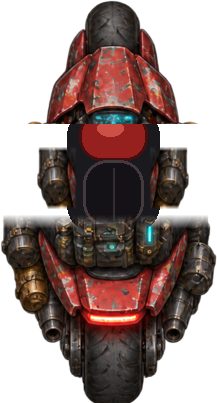
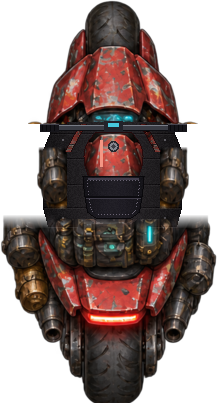
v0.57.1 · ClaudeHelper: Ravens Schüsse, unsichtbare Koop-Wand, geparktes Motorrad (#24)
- Ravens normale Schüsse treffen die Gegner in Kapitel 3–7
- Koop-Leine nur noch zwischen zwei gespielten, sichtbaren Helden
- Geparktes Motorrad: Mittelteil mit Rahmen, Lenker, Tank und Sitzbank statt Lücke
- Anzeige ohne doppelte Raven-Zeile

Claude-Session: https://claude.ai/code/session_01DCcWRks7BwbFYudgfv7A8H

Changed region(s): [[0.1659, 0.2978, 0.8848, 0.5658], [0.0553, 0.536, 0.1106, 0.5658]]

diff --git a/tools/vehicles/repair_parked_bike.py b/tools/vehicles/repair_parked_bike.py
@@ -1,0 +1,125 @@
+#!/usr/bin/env python3
+"""v0.57.1 · ClaudeHelper: geparktes Motorrad ohne Lücke (Nutzerbericht vom 11. November 2026).
+
+Das alte Bild `assets/world/hq/bike-parked.png` hatte dort, wo im Fahrbild die Fahrer sitzen, eine
+flache Ersatzfläche und zwei durchsichtige Querstreifen. Dieses Werkzeug ersetzt genau diesen
+Mittelteil (Zeilen 122–222) durch Rahmen, Lenker, Tank und Sitzbank. Verkleidung, Motor, Heck und
+Räder bleiben Pixel für Pixel erhalten; der rote Lack des Tanks stammt aus der vorhandenen
+Frontverkleidung.
+
+Quelle ist die Fassung aus dem Git-Stand vor v0.57.1 (einmalig nach
+`tools/vehicles/bike-parked-source.png` gesichert), damit ein zweiter Lauf dasselbe Ergebnis gibt.
+Aufruf aus dem Repository-Wurzelverzeichnis:  python3 tools/vehicles/repair_parked_bike.py
+"""
+from pathlib import Path
+import numpy as np
+from PIL import Image, ImageDraw
+
+ROOT = Path(__file__).resolve().parents[2]
+SOURCE = Path(__file__).with_name("bike-parked-source.png")
+TARGET = ROOT / "assets/world/hq/bike-parked.png"
+CX = 113                       # Längsachse des Motorrads
+
+
+def noise(shape, rng, amount):
+    return rng.integers(-amount, amount + 1, shape)
+
+
+def main():
+    rng = np.random.default_rng(571)
+    old = np.asarray(Image.open(SOURCE).convert("RGBA")).astype(np.int32)
+    h, w = old.shape[:2]
+    yy, xx = np.mgrid[0:h, 0:w]
+
+    # 1 · Ersatzfläche entfernen.
+    art = old.copy()
+    art[122:219, 67:160] = 0
+
+    # 2 · Rahmen unter allem: dunkler Stahl mit Blechstößen, schließt beide Querstreifen.
+    frame_mask = Image.new("L", (w, h), 0)
+    ImageDraw.Draw(frame_mask).polygon([(56, 118), (168, 118), (181, 150), (181, 208), (176, 226), (48, 226), (43, 208), (43, 150)], fill=255)
+    inside = np.asarray(frame_mask) > 0
+    steel = np.zeros((h, w, 4), np.int32)
+    shade = 1.0 - 0.5 * (np.abs(xx - CX) / 70.0) ** 1.6
+    base = np.stack([40 * shade, 37 * shade, 40 * shade], axis=-1) + noise((h, w, 1), rng, 5)
+    steel[..., :3] = base
+    steel[..., 3] = 255
+    for y in (133, 158, 184, 207):                         # Blechstöße
+        steel[y, :, :3] -= 14; steel[y + 1, :, :3] += 9
+    for y in range(126, 222, 13):                          # Nieten
+        for x in (62, 164):
+            steel[y:y + 2, x:x + 2, :3] = (92, 90, 96)
+    steel[~inside] = 0
+    edge = inside & ~(np.roll(inside, 1, 1) & np.roll(inside, -1, 1) & np.roll(inside, 1, 0) & np.roll(inside, -1, 0))
+    steel[edge, :3] = (12, 11, 14)
+
+    out = steel.astype(np.float32)
+    alpha = art[..., 3:4].astype(np.float32) / 255.0       # altes Bild darüber (halbtransparente Ränder mischen sauber)
+    out[..., :3] = out[..., :3] * (1 - alpha) + art[..., :3] * alpha
+    out[..., 3] = np.maximum(out[..., 3], art[..., 3])
+    out = out.astype(np.int32)
+
+    def stamp(mask, colour):
+        out[mask, :3] = colour; out[mask, 3] = 255
+
+    # 3 · Rote Rahmenrohre zwischen Verkleidung, Tank und Motor.
+    paint = old[44:92, 84:142, :3]                         # Lack der Frontverkleidung
+    for side in (-1, 1):
+        for y in range(124, 152):
+            x0 = CX + side * (30 + (y - 124) * 0.55)
+            xs = np.arange(int(x0) - 3, int(x0) + 4)
+            out[y, xs, :3] = (paint[(y * 3) % 48, (xs * 2) % 58] * 0.62).astype(np.int32)
+            out[y, xs, 3] = 255
+            out[y, [xs[0], xs[-1]], :3] = (30, 10, 12)
+
+    # 4 · Lenker mit Griffen und Armaturen.
+    stamp((yy >= 125) & (yy <= 129) & (xx >= 52) & (xx <= 174), (58, 60, 68))
+    stamp((yy == 125) & (xx >= 52) & (xx <= 174), (120, 124, 134))
+    stamp((yy == 130) & (xx >= 52) & (xx <= 174), (14, 14, 18))
+    for x0, x1 in ((40, 58), (168, 186)):
+        stamp((yy >= 124) & (yy <= 131) & (xx >= x0) & (xx <= x1), (22, 21, 26))
+        stamp((yy == 124) & (xx >= x0) & (xx <= x1), (70, 68, 78))
+        for x in range(x0 + 2, x1, 4):
+            stamp((yy >= 125) & (yy <= 130) & (xx == x), (10, 10, 13))
+    stamp((yy >= 121) & (yy <= 133) & (np.abs(xx - CX) <= 9), (34, 35, 42))          # Gabelbrücke
+    stamp((yy >= 123) & (yy <= 126) & (np.abs(xx - CX) <= 5), (70, 200, 220))        # Anzeige
+    stamp((yy == 133) & (np.abs(xx - CX) <= 9), (10, 10, 13))
+
+    # 5 · Tank: Lack aus der Verkleidung, gewölbt schattiert.
+    ty = (yy - 156) / 24.0
+    half = 30.0 - 7.0 * np.clip(ty, 0, 1) ** 2 - 12.0 * np.clip(-ty, 0, 1) ** 2.2    # vorn schmaler
+    tank = (np.abs(ty) <= 1.0) & (np.abs(xx - CX) <= half)
+    src = paint[np.clip(yy - 132, 0, 47), np.clip(xx - 84, 0, 57)]
+    curve = 1.12 - 0.62 * (np.abs(xx - CX) / np.maximum(half, 1)) ** 2 - 0.25 * np.clip(ty, 0, 1)
+    lacquer = np.clip(src * curve[..., None], 0, 255).astype(np.int32)
+    out[tank, :3] = lacquer[tank]; out[tank, 3] = 255
+    rim = tank & ~(np.roll(tank, 1, 1) & np.roll(tank, -1, 1) & np.roll(tank, 1, 0) & np.roll(tank, -1, 0))
+    stamp(rim, (38, 10, 12))
+    stamp(tank & (np.abs(xx - (CX - 12)) <= 1) & (yy >= 140) & (yy <= 166), (244, 150, 132))   # Glanzstreifen
+    cap = (xx - CX) ** 2 + (yy - 146) ** 2
+    stamp(cap <= 30, (40, 40, 46)); stamp(cap <= 16, (132, 134, 142)); stamp(cap <= 4, (60, 62, 70))
+
+    # 6 · Sitzbank für zwei: schwarzes Leder mit Naht und Glanzkante.
+    sy = (yy - 176) / 42.0
+    seat_half = 31.0 - 6.0 * np.clip(sy, 0, 1) ** 1.5
+    seat = (yy >= 176) & (yy <= 218) & (np.abs(xx - CX) <= seat_half)
+    corner = (yy > 212) & (np.abs(xx - CX) > seat_half - (yy - 212) * 1.2)
+    seat &= ~corner
+    leather = np.stack([30, 28, 35], axis=-1) * (1.08 - 0.5 * (np.abs(xx - CX) / 32.0) ** 2)[..., None] + noise((h, w, 1), rng, 3)
+    out[seat, :3] = leather[seat].astype(np.int32); out[seat, 3] = 255
+    seat_rim = seat & ~(np.roll(seat, 1, 1) & np.roll(seat, -1, 1) & np.roll(seat, 1, 0) & np.roll(seat, -1, 0))
+    inner = seat & np.roll(seat, 4, 1) & np.roll(seat, -4, 1) & np.roll(seat, 4, 0) & np.roll(seat, -4, 0)
+    stitch = inner & ~(np.roll(inner, 1, 1) & np.roll(inner, -1, 1) & np.roll(inner, 1, 0) & np.roll(inner, -1, 0))
+    stamp(stitch & ((xx + yy) % 3 == 0), (104, 98, 112))
+    stamp(seat & (yy >= 196) & (yy <= 197), (12, 11, 15))                              # Stufe Fahrer / Sozius
+    stamp(seat & (yy == 198), (62, 58, 70))
+    stamp(seat & (yy >= 178) & (yy <= 179) & (np.abs(xx - CX) <= seat_half - 5), (66, 62, 76))   # Glanzkante vorn
+    stamp(seat_rim, (9, 8, 11))
+
+    out = np.clip(out, 0, 255).astype(np.uint8)
+    Image.fromarray(out, "RGBA").save(TARGET, optimize=True)
+    print("geschrieben:", TARGET.relative_to(ROOT), out.shape)
+
+
+if __name__ == "__main__":
+    main()

diff --git a/Spiel-README.md b/Spiel-README.md
@@ -1,6 +1,6 @@
 # Shadepi · Spieleranleitung
 
-**Aktueller Stand v0.57.0 · ClaudeHelper.** [Neu: Arcade-Automat NEON KOMBAT](docs/arcade.md) · [Neu: Verfolger explodiert, Baken zerbersten](docs/verfolgung-finale-v056.md) · [Neu: Hauptmenü aus jedem Kapitel, Koop in allen Abschnitten](docs/menue-kontrollpunkte.md) · [Neu: Koop mit Raven in Kapitel 3–7, neue Tonaufnahmen](docs/begleiter.md) · [Neu: Begleiter für Spieler 2](docs/begleiter.md) · [Neu: kalibrierte Sprites, Spiegelungen, Kinolicht](docs/szenenpolitur-v052.md) · [Neu: Towerplan, Pixelmarker, Alarmlicht, Umgebungsgeräusche](docs/verbesserungen-v048.md) · [Story-Durchsicht Kapitel 1–7](docs/story-durchsicht.md) · [Downloads](https://github.com/Inrouder/ShadepiRPG/releases/latest) · [Bilder und Filme](docs/README.md) · [Änderungen](CHANGELOG.md). [Ältere Anleitung mit damaligen Abläufen](docs/archiv/spielanleitung-bis-v0461.md).
+**Aktueller Stand v0.57.1 · ClaudeHelper.** [Neu: Arcade-Automat NEON KOMBAT](docs/arcade.md) · [Neu: Verfolger explodiert, Baken zerbersten](docs/verfolgung-finale-v056.md) · [Neu: Hauptmenü aus jedem Kapitel, Koop in allen Abschnitten](docs/menue-kontrollpunkte.md) · [Neu: Koop mit Raven in Kapitel 3–7, neue Tonaufnahmen](docs/begleiter.md) · [Neu: Begleiter für Spieler 2](docs/begleiter.md) · [Neu: kalibrierte Sprites, Spiegelungen, Kinolicht](docs/szenenpolitur-v052.md) · [Neu: Towerplan, Pixelmarker, Alarmlicht, Umgebungsgeräusche](docs/verbesserungen-v048.md) · [Story-Durchsicht Kapitel 1–7](docs/story-durchsicht.md) · [Downloads](https://github.com/Inrouder/ShadepiRPG/releases/latest) · [Bilder und Filme](docs/README.md) · [Änderungen](CHANGELOG.md). [Ältere Anleitung mit damaligen Abläufen](docs/archiv/spielanleitung-bis-v0461.md).
 
 **Kapitel 7 / Menü v0.49.0 · CodexAI:** Bewegte Mondspiegelung, sechs Drachenphasen und acht Kontaktbilder am See; kompakte Menüs mit innenliegender Hilfe und passenden Kapitelaktionen. [Bilder und Film](docs/mondsee-v049.md).
 

diff --git a/tools/README.md b/tools/README.md
@@ -39,6 +39,7 @@ Diese Vermessungen lesen PNG-Pixel, **überschreiben aber aktive JSON-Anker-/Akt
 | [audit_atlases.py](sprites/audit_atlases.py) | v0.52.0 · ClaudeHelper: **nur lesend.** Findet Posen, die ein Stück der Nachbarpose zeigen oder abgeschnitten sind. Braucht Pillow, numpy, scipy. |
 | [calibrate_atlases.py](sprites/calibrate_atlases.py) | v0.52.0 · ClaudeHelper: schreibend. Gibt jeder Pose eine eigene Zelle mit Rand und passt die JSON-Kataloge an; zeichnet nichts neu. Ausschnitte stehen in [atlas_regions.py](sprites/atlas_regions.py). |
 | [import_free_sfx.py](audio/import_free_sfx.py) | v0.54.0 · ClaudeHelper: wandelt die freien CC0-Aufnahmen in die Spieldateien um; Quellen in `assets/audio/CREDITS.md`. Braucht ffmpeg und die Quell-Klone. |
+| [repair_parked_bike.py](vehicles/repair_parked_bike.py) | v0.57.1 · ClaudeHelper: ersetzt den lückenhaften Mittelteil von `assets/world/hq/bike-parked.png` durch Rahmen, Lenker, Tank und Sitzbank; Quelle ist die gesicherte Altfassung `vehicles/bike-parked-source.png`. |
 | [build_arcade.py](arcade/build_arcade.py) | v0.57.0 · ClaudeHelper: schreibt Bühne, Automat und Trefferfunken für NEON KOMBAT nach `assets/arcade/`. Braucht Pillow und numpy. |
 | [build_drive_fx.py](fx/build_drive_fx.py) | v0.56.0 · ClaudeHelper: schreibt die Pixel-FX der Verfolgung nach `assets/fx/drive/` und das Wagenwrack `assets/vehicles/pursuit/wreck.png`. Braucht Pillow und numpy. |
 | [build_companions.py](companions/build_companions.py) | v0.53.0 · ClaudeHelper: schreibt Drohne und Naniten nach `assets/sprites/companions/`. |

diff --git a/docs/README.md b/docs/README.md
@@ -1,6 +1,6 @@
 # Shadepi · Bilder, Filme und Dokumentation
 
-**Stand v0.57.0 · ClaudeHelper · 11. November 2026.** [Zur Repository-Startseite](../README.md) · [Spieleranleitung](../Spiel-README.md) · [Versionshinweise](../CHANGELOG.md).
+**Stand v0.57.1 · ClaudeHelper · 11. November 2026.** [Zur Repository-Startseite](../README.md) · [Spieleranleitung](../Spiel-README.md) · [Versionshinweise](../CHANGELOG.md).
 
 Die Bilder öffnen den jeweiligen Bericht. Dort findest du größere Spielaufnahmen, animierte Szenenfilme, Bedienung und technische Hinweise. Die PNG-Vorschauen sind direkt in GitHub sichtbar; die Filme bleiben zusätzlich als verlinkte WebP-Dateien erreichbar.
 
@@ -12,11 +12,11 @@ In Kapitel 3 bis 7 steuert Spieler 2 Raven selbst, wo sie frei in der Szene steh
 
 [![Automat in der Halle, Kämpferwahl und Kampf](previews/arcade-v057.webp)](arcade.md)
 
-[Arcade-Automat NEON KOMBAT](arcade.md) · Aufnahmestand v0.57.0.
+[Arcade-Automat NEON KOMBAT](arcade.md) · Aufnahmestand v0.57.1.
 
 [![Bake zerbirst, Wagen brennt, Wrack bleibt zurück](previews/verfolgung-wrack-v056.webp)](verfolgung-finale-v056.md)
 
-[Verfolgungsfinale: Explosion und zerberstende Hindernisse](verfolgung-finale-v056.md) · Aufnahmestand v0.57.0.
+[Verfolgungsfinale: Explosion und zerberstende Hindernisse](verfolgung-finale-v056.md) · Aufnahmestand v0.57.1.
 
 [![Drohne und Nanitenschwarm im Spiel](previews/begleiter-v053.png)](begleiter.md)
 

diff --git a/CHANGELOG.md b/CHANGELOG.md
@@ -1,5 +1,14 @@
 # Versionshinweise
 
+## v0.57.1 – ClaudeHelper: Ravens Schüsse, unsichtbare Wand, Motorrad · 11. November 2026
+
+Nutzerbericht mit Bild aus der Halle (Kapitel 4, Koop).
+
+- **Ravens Schüsse treffen wieder:** In Kapitel 3–7 kannte die Schussprüfung nur den Gegner der Testszene; Ravens normale Schüsse gingen deshalb durch alle Kampagnengegner hindurch. Jetzt trifft sie den nächsten Gegner im Schusskegel.
+- **Unsichtbare Wand im Koop:** Die Koop-Leine hielt eine allein geführte Figur am unsichtbar wartenden Partner fest (in der Halle: Raven kam nicht weiter nach rechts). Die Leine gilt nur noch zwischen zwei gespielten, sichtbaren Helden.
+- **Geparktes Motorrad:** Der Mittelteil bestand aus einer flachen Ersatzfläche mit zwei durchsichtigen Streifen. Er ist durch Rahmen, Lenker, Tank und Sitzbank ersetzt (`tools/vehicles/repair_parked_bike.py`); Verkleidung, Motor und Heck sind unverändert.
+- **Anzeige:** Führt Raven allein, erscheint keine doppelte Raven-Zeile mehr; die Balken zeigen ihre Werte.
+
 ## v0.57.0 – ClaudeHelper: Arcade-Automat „NEON KOMBAT“ · 11. November 2026
 
 Nutzerauftrag: ein Automat in Shadepis Versteck mit einem Kampfspiel für alle Figuren, auch zu zweit.

diff --git a/CLAUDE.md b/CLAUDE.md
@@ -1,6 +1,6 @@
 # Projekteinstieg für Claude
 
-**Stand v0.57.0 · ClaudeHelper (Einstieg eingeführt v0.46.2 · CodexAI).** Für dieses Repository gelten die gemeinsamen Regeln in [AGENTS.md](AGENTS.md), die verbindliche [Konsistenzvorlage](KONSISTENZ.md) und die **[bebilderte Stilbibel für das gesamte Spiel](docs/stilbibel/README.md)**. Vor Projektarbeiten lesen und die passenden Figuren-/Welt-/Objekt-/UI-/FX-Karten tatsächlich ansehen.
+**Stand v0.57.1 · ClaudeHelper (Einstieg eingeführt v0.46.2 · CodexAI).** Für dieses Repository gelten die gemeinsamen Regeln in [AGENTS.md](AGENTS.md), die verbindliche [Konsistenzvorlage](KONSISTENZ.md) und die **[bebilderte Stilbibel für das gesamte Spiel](docs/stilbibel/README.md)**. Vor Projektarbeiten lesen und die passenden Figuren-/Welt-/Objekt-/UI-/FX-Karten tatsächlich ansehen.
 
 Für konkrete Änderungen die [Arbeitsvorlage](docs/vorlagen/konsistenz-auftrag.md) verwenden. Aktive Referenzen, Versions-/Bearbeitervermerke und bereits bestehende Autorisierung aus den gemeinsamen Regeln übernehmen. Hier keine abweichende zweite Regelsammlung führen.
 

diff --git a/README.md b/README.md
@@ -1,6 +1,6 @@
 # Shadepi · Echos in Neon
 
-**2D-Action-RPG · v0.57.0 · ClaudeHelper · Godot 4.7.2 · Windows / Linux · Einzelspieler und Lokal-Koop**
+**2D-Action-RPG · v0.57.1 · ClaudeHelper · Godot 4.7.2 · Windows / Linux · Einzelspieler und Lokal-Koop**
 
 Ein spielbares Cyberpunk-Abenteuer nach **„Shadepi – Im Schatten des Raben“** mit sieben Kapiteln, gemalten Spielwelten, illustrierten Sprites für Raven, Shadepi und die Gegner sowie zerstörbarer Umgebung.
 
